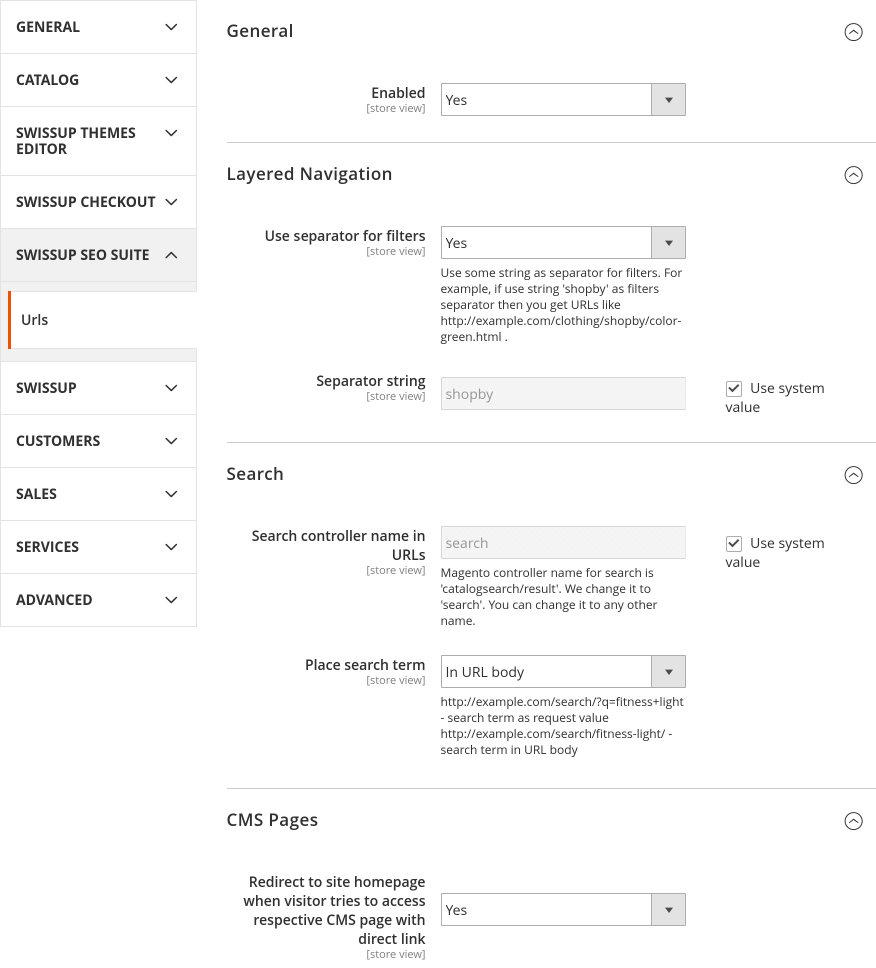
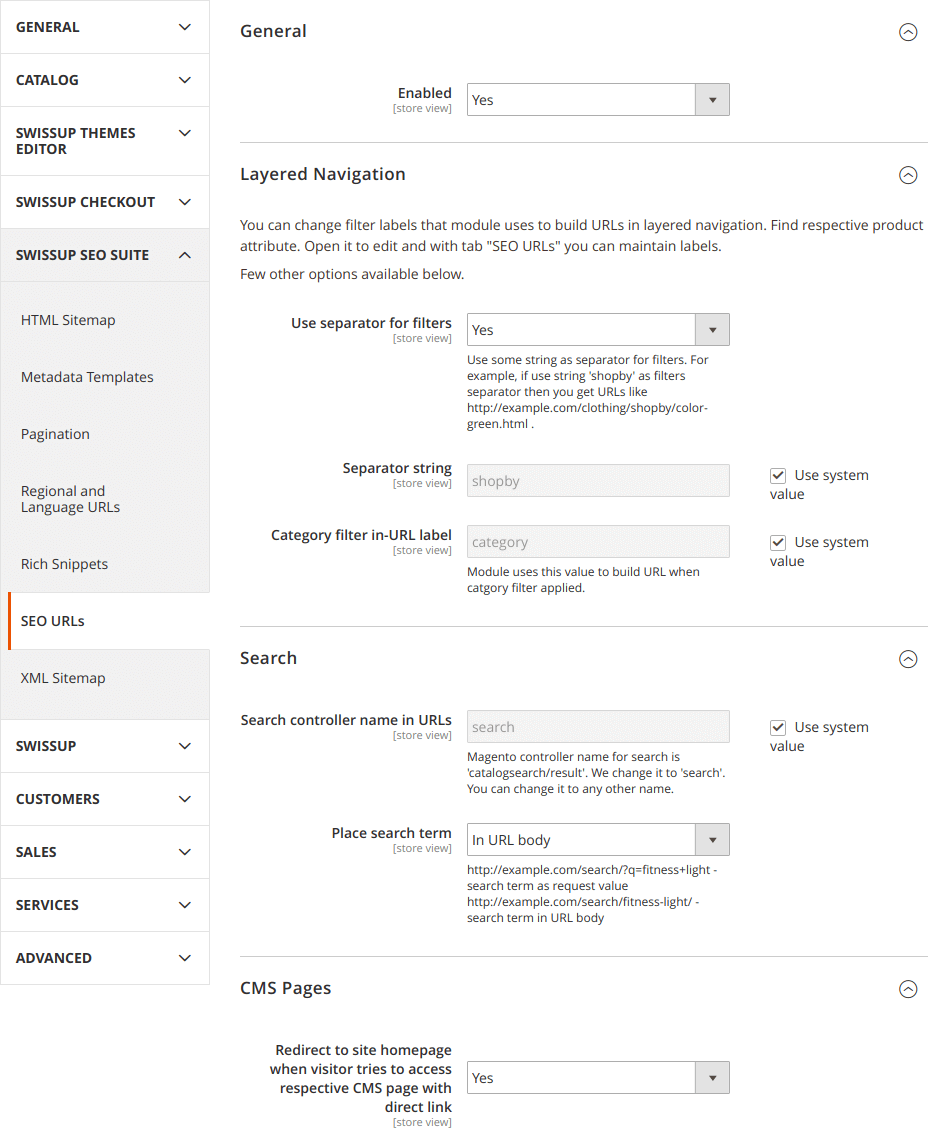
SEO URLs M2 - docs update

diff --git a/m2/extensions/seo-urls/change-labels.md b/m2/extensions/seo-urls/change-labels.md
@@ -1,0 +1,42 @@
+---
+layout: default
+title: Chaneg Labels
+description: SEO URLs Configuration - attribute labels
+keywords: seo urls, options, configuration, attribute labels, attribute values
+category: Seo Urls
+---
+
+# Change Attribute Labels and Values used in URL
+{:.no_toc}
+
+* TOC
+{:toc}
+
+SEO URLs module provides additional interfaces to help store owners maintain attribute labels and values used in URLs for layered navigation. This feature is available since module version 1.4.0.
+
+By default module generate URLs using original attribute labels and value labels - _http://example.com/gear/bags/color-black/material-polyester.html_.
+
+Some one can feel this URL to long and like to have something shorter - _http://example.com/gear/bags/clr-bl/mtr-poly.html_.
+
+You can achieve this easily with SEO URLs module. Open Product Attribute 'Color' in Magento Admin and set in-URL labels with new values at "SEO URLs" tab.
+
+![Attribute in-URL labels](/images/m2/seo-urls/attribute-labels.png)
+
+Then do similar with 'Material' attribute and voila.
+
+Use fields in column "All Stores" to set values for all stores or column with store name to set new labels for that specific store.
+
+Feel free to use different UTF symbols to make URLs in your store more attractive. For example you can have such fancy URLs for stock filter:
+
+```
+http://argento.mage/women/stock-✓.html
+http://argento.mage/women/stock-✗.html
+```
+
+You can also use "SEO URLs" tab to make all labels strictly with English characters. It can be very handy for clients with non-English stores who wants to have only English characters in URLs.
+
+#### Next up
+{:.no_toc}
+
+ -  [Back to Main Page](../)
+

diff --git a/m2/extensions/seo-urls/faq.md b/m2/extensions/seo-urls/faq.md
@@ -14,7 +14,7 @@ category: Seo Urls
 
 ## How extension build urls in layerd navigation
 
-Extension uses attribute labels and its value labels to create urls for filters in layered navigation. Extension converts labels to lower case, remove forbidden characters (`.`, `&`) and replace spaces with dashes. Also extension considers attribute sort order and create always the same url for same filter set. And order in which filters were applied is not important.
+Extension uses attribute labels and its value labels to create urls for filters in layered navigation. Extension tries to find [in-URL label](../change-labels) for filter (attribute). If nothing found the it converts origignal store labels to lower case, remove forbidden characters (`.`, `&`) and replace spaces with dashes. Also extension considers attribute sort order and create always the same url for same filter set. And order in which filters were applied is not important.
 
 So you have to make sure that your store do not have same labels in one attribute. Otherwise magento can show incorrect results for applied filters in layered navigation.
 

diff --git a/m2/extensions/seo-urls/index.md b/m2/extensions/seo-urls/index.md
@@ -20,6 +20,7 @@ Extension builds SEO friendly links for filters in layered navigation at categor
 
  -  Build URLs for Layered Navigation that are easy to read and understand.
  -  Reduce duplicated content using strict rule for building URLs - *filter set has one and only one link to it*.
+ -  Change/rename labels for attributes and its options used in URLs for Layered Navigation.
  -  Rename `catalogsearch/result` page to short and understandable `search` (or any other name you want).
  -  Ready out of the box - install and use.
 
@@ -27,4 +28,5 @@ Extension builds SEO friendly links for filters in layered navigation at categor
 
  -  [Installation](installation/)
  -  [Configuration](configuration/)
+ -  [Change labels in URL](change-labels/)
  -  [FAQ](faq/)

diff --git a/m2/extensions/seo-urls/configuration.md b/m2/extensions/seo-urls/configuration.md
@@ -27,7 +27,9 @@ At this section you can make few tweaks to url build for filters in layered navi
 
 By default extension build filter url like this - `http://example.com/gear/bags/color-black/material-polyester.html`. Where `gear/bags` is category and `color-black/material-polyester` are applied filters.
 
-Some store owners like to separate filters from category in url. You can do so with option 'Use separator for filters' and 'Separator string'.
+Some store owners like to separate filters from category in url. You can do so with option `Use separator for filters` and `Separator string`.
+
+Other option `Category filter in-URL label` allows you to change label for catgory filter. Module uses this label to build URLs in layeren navigation.
 
 ### Search
 
